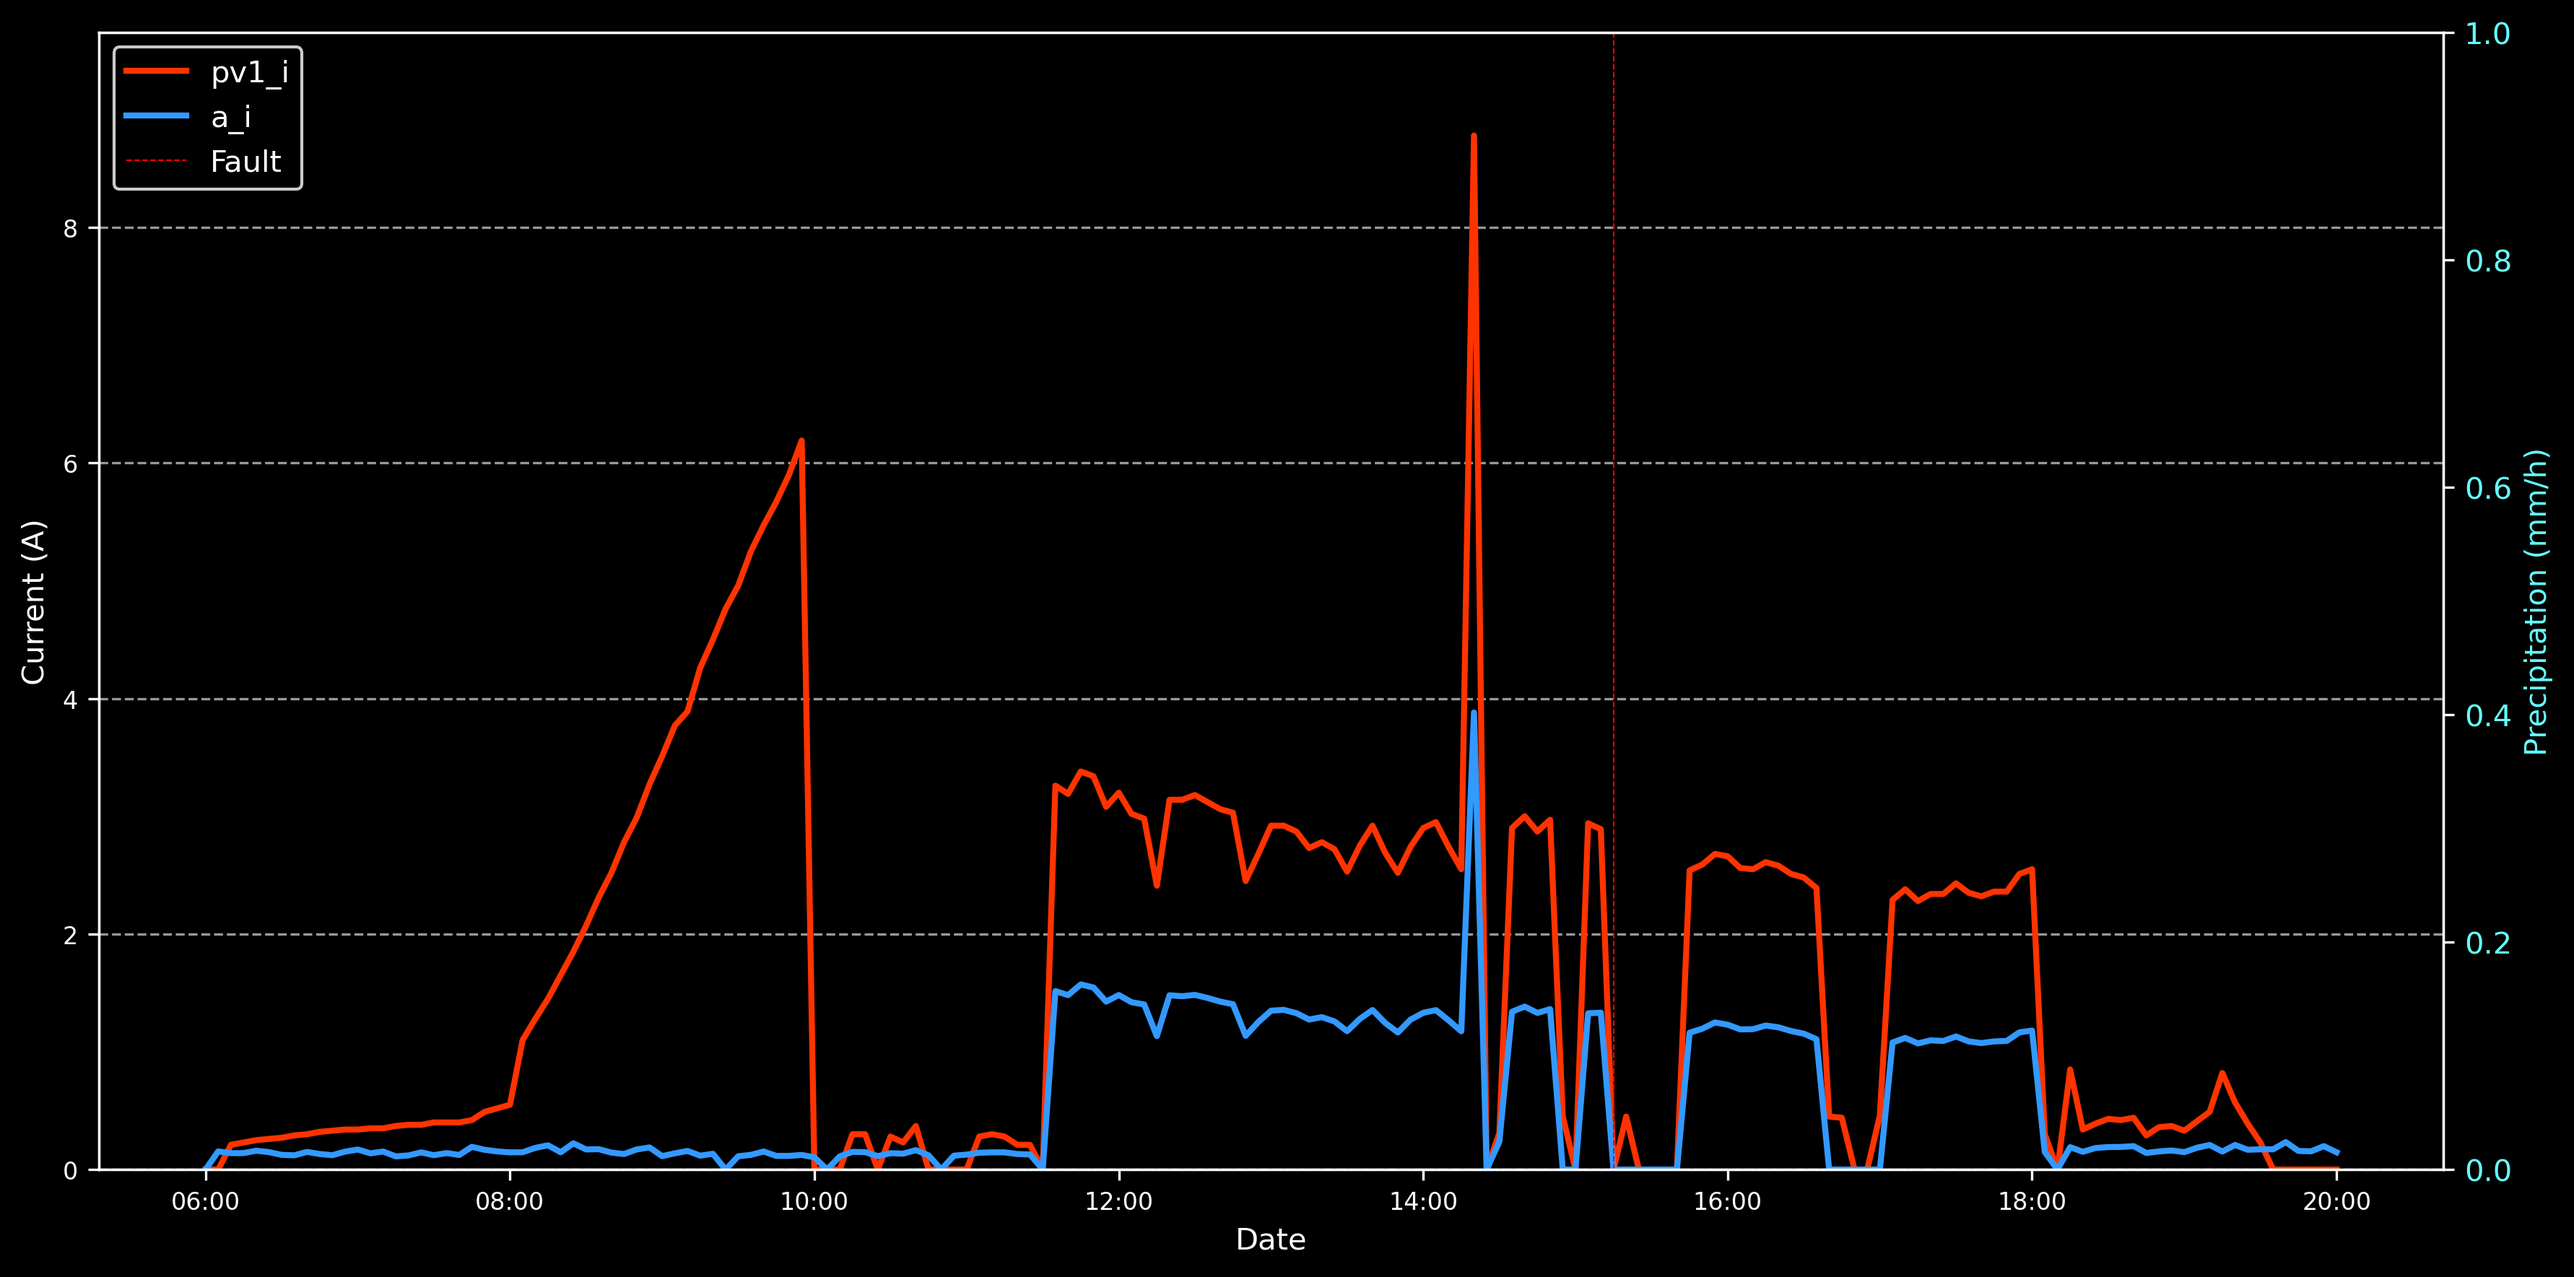
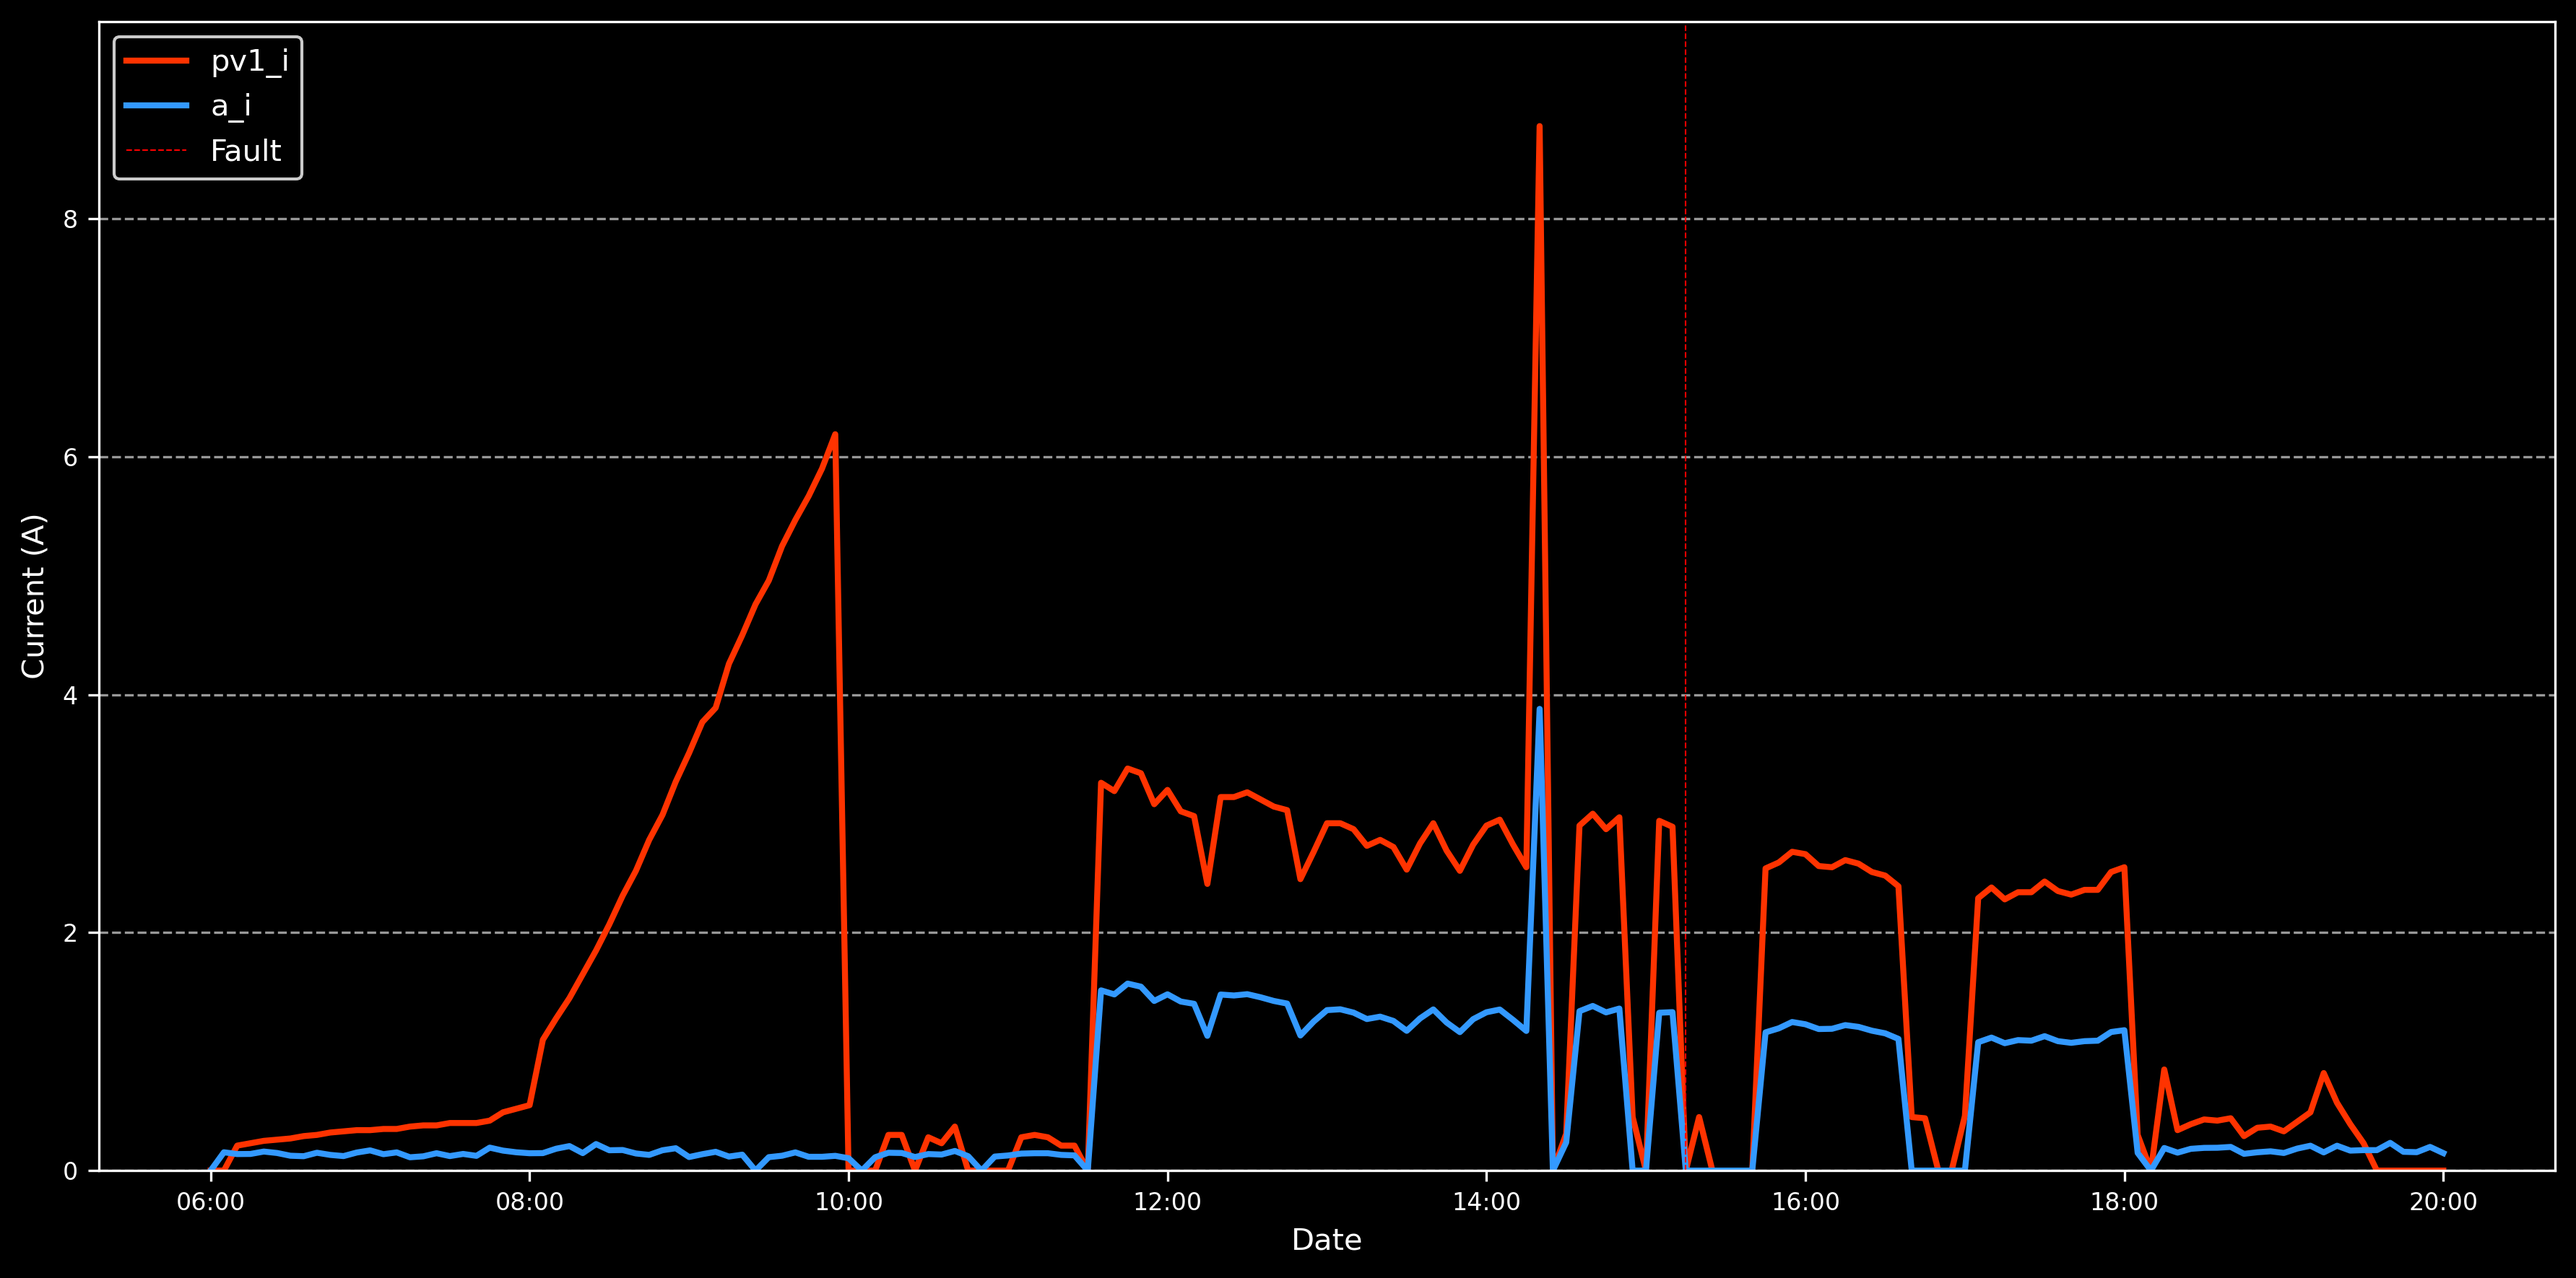
Update

diff --git a/plot_day_samples.py b/plot_day_samples.py
@@ -256,26 +256,26 @@ def plot_currents(df_original, date, condition_title, output_folder, filename, s
     # Set plot title
     # plt.title(f"PV and Phase Currents, {condition_title}, {LOCAL}, {date}", fontsize=18, verticalalignment='bottom', color='white')
     
+    # Initialize a list to store legend handles
+    handles = []
     # -------------------------
     # Precipitation axis (right)
     # -------------------------
     if soiling:
         # Set plot title
         # plt.title(f"PV and Phase Currents, and Precipitation, {condition_title}, {LOCAL}, {date}", fontsize=18, verticalalignment='bottom', color='white')
-        ax2 = ax1.twinx()
-        ax2.plot(df.index, df['precipitation'], color=CURR_VOLT_PALETTE['precipitation'],
-                 linewidth=0.5, label='Precipitation (mm/h)')
-        ax2.set_ylabel("Precipitation (mm/h)", color=CURR_VOLT_PALETTE['precipitation'])
-        ax2.tick_params(axis='y', labelcolor=CURR_VOLT_PALETTE['precipitation'])
-        # Normalize y-axis for small precipitation values
-        max_precip = df['precipitation'].max()
-        if max_precip < 1:
-            ax2.set_ylim(0, 1)
-        else:
-            ax2.set_ylim(0, max_precip * 1.1)
-
-        # Initialize a list to store legend handles
-        handles = []
+        if condition_title != "Real Data":
+            ax2 = ax1.twinx()
+            ax2.plot(df.index, df['precipitation'], color=CURR_VOLT_PALETTE['precipitation'],
+                    linewidth=0.5, label='Precipitation (mm/h)')
+            ax2.set_ylabel("Precipitation (mm/h)", color=CURR_VOLT_PALETTE['precipitation'])
+            ax2.tick_params(axis='y', labelcolor=CURR_VOLT_PALETTE['precipitation'])
+            # Normalize y-axis for small precipitation values
+            max_precip = df['precipitation'].max()
+            if max_precip < 1:
+                ax2.set_ylim(0, 1)
+            else:
+                ax2.set_ylim(0, max_precip * 1.1)
 
         # Add MPPT lines to the handles
         if pv1_i_clean:
